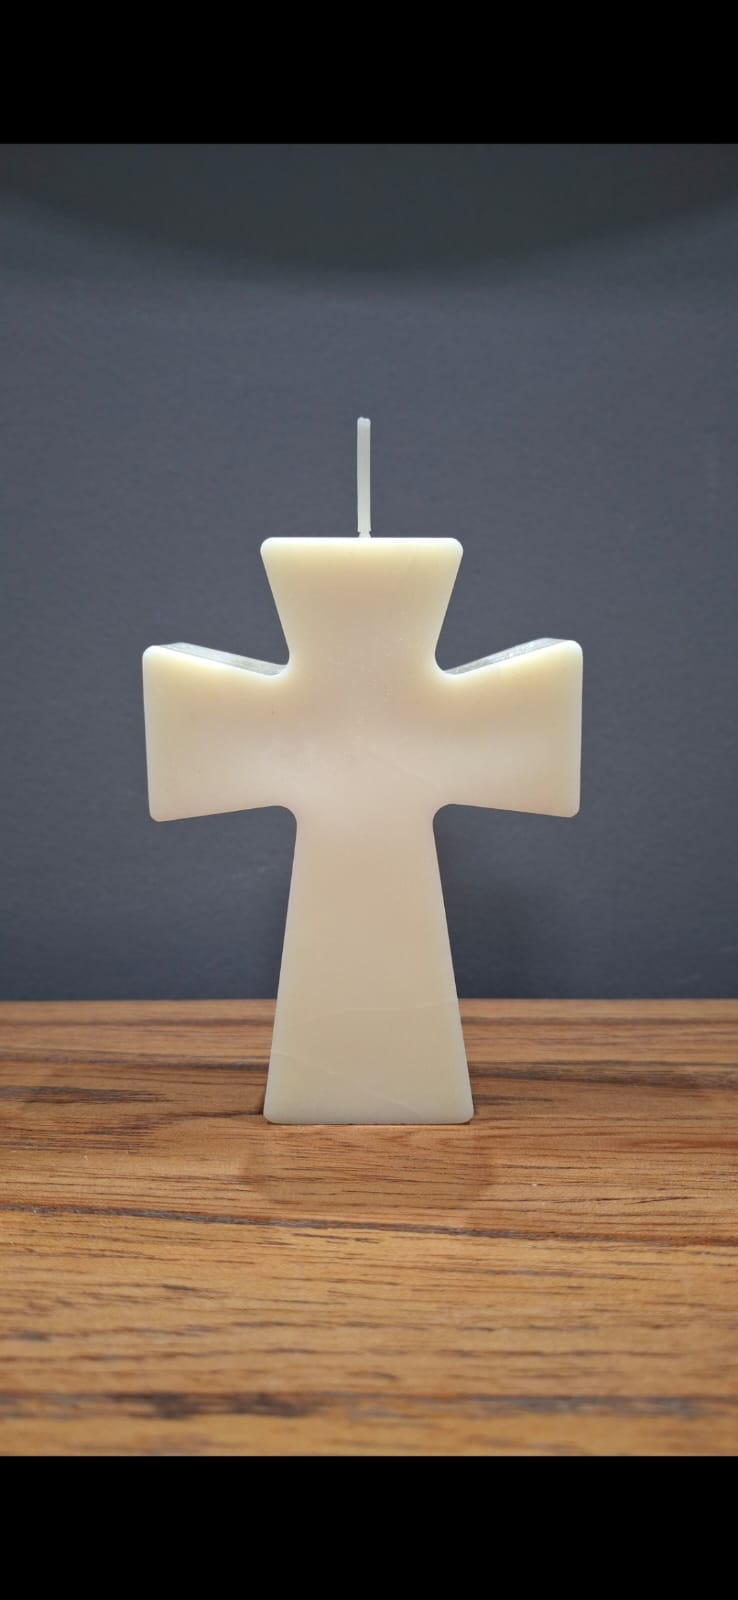
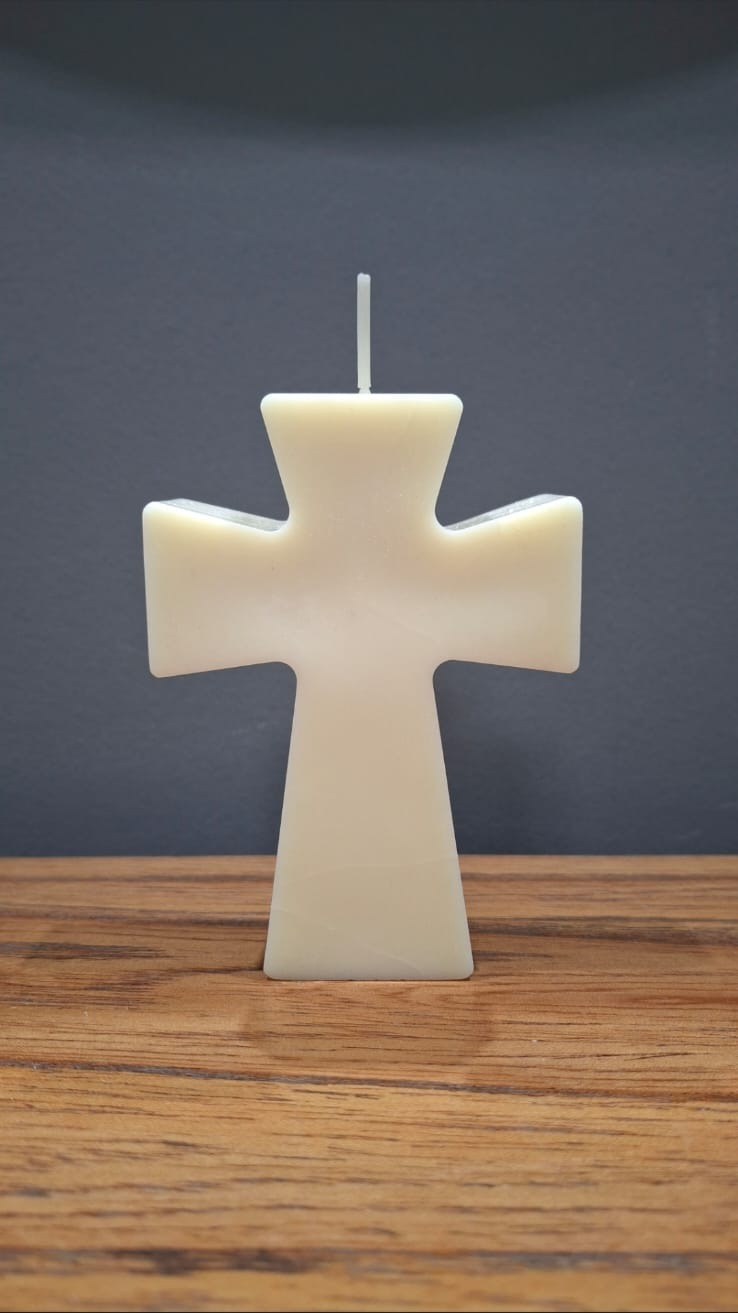
feat: ordenar el catálogo por categoría y recortar las barras de Vela cruz grande
En 'Todos' los productos salían en orden alfabético mezclando categorías
(Cubo de vela, El principito, Estrella...). Pasan a agruparse por categoría,
en el mismo orden que los filtros, y alfabético adentro de cada una. Se
aplica a Drive y a la copia local, así las dos fuentes se ven igual.

La foto de Vela cruz grande era una captura de historia de Instagram con
barras negras de 144px arriba y 143px abajo (738x1600). Recortada a
738x1313 en la copia local; la de Drive la reemplaza Nico a mano.

La copia local tenía todavía el nombre viejo de la categoría 'Velas en frasco
de vidrio con sticker'; pasa a 'Velas con sticker' como en Drive.

Claude-Session: https://claude.ai/code/session_01QJxsSfd4GNLEZE9AUHzyY2

diff --git a/js/catalogo.js b/js/catalogo.js
@@ -65,7 +65,7 @@ async function leerDeDrive() {
   return [...enRaiz, ...enSubcarpetas]
     .filter((f) => f.mimeType.startsWith('image/') && !oculto(f.name))
     .map((f) => aProducto(f, categorias))
-    .sort((a, b) => a.nombre.localeCompare(b.nombre, 'es'));
+    .sort(porCategoria);
 }
 
 function aProducto(archivo, categorias) {
@@ -90,6 +90,11 @@ const imagen = (id) => `${API}/${id}?alt=media&key=${CONFIG.drive.apiKey}`;
 const PESO_MAX = 500 * 1024;
 
 const oculto = (nombre) => nombre.startsWith('_');
+
+// En "Todos" los productos salen agrupados por categoría y, dentro de cada
+// una, por nombre. Mismo orden que los filtros.
+const porCategoria = (a, b) =>
+  a.categoria.localeCompare(b.categoria, 'es') || a.nombre.localeCompare(b.nombre, 'es');
 
 /* ---------- Nombre del archivo ---------- */
 
@@ -123,7 +128,7 @@ async function leerCopiaLocal() {
     categoria: item.categoria || 'Otros',
     imagen: item.imagen,
     imagenGrande: item.imagenGrande || item.imagen,
-  }));
+  })).sort(porCategoria);
 }
 
 /* ---------- Cache ---------- */

diff --git a/docs/plan/01-catalogo.md b/docs/plan/01-catalogo.md
@@ -91,7 +91,7 @@ Reglas:
   fotos sueltas en la raíz caen en "Otros".
 - Carpetas o archivos que empiezan con `_` no se muestran. Es la forma de
   despublicar algo sin borrarlo.
-- El **orden** es alfabético. Si quieren mandar algo arriba, le ponen un
+- El **orden** es por categoría y, dentro de cada una, alfabético. Si quieren mandar algo arriba, le ponen un
   prefijo numérico: `01. Vela lavanda.jpg`. La página corta el `01. ` al
   mostrar.
 
